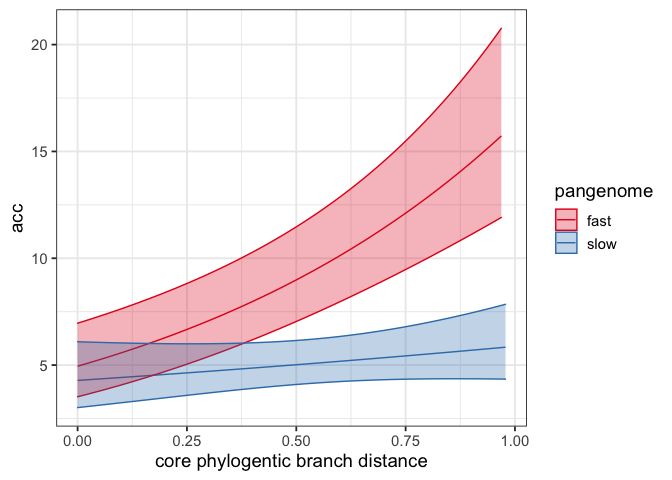
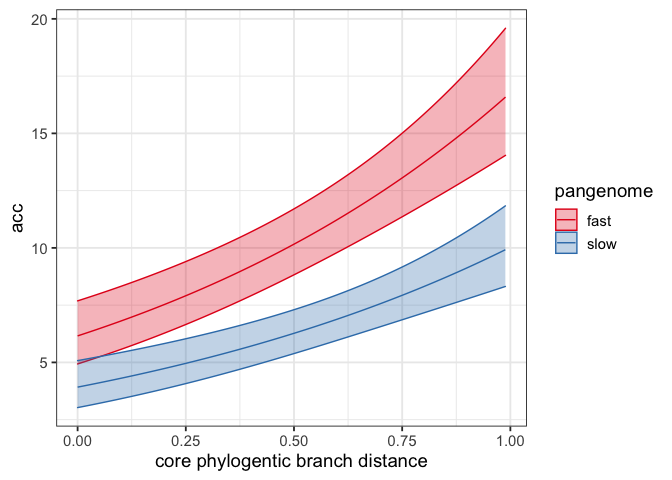
latest merge

diff --git a/README.md b/README.md
@@ -105,6 +105,11 @@ gain and loss.
     significantly with the depth of a branch. Typically, our ability to
     detect gene exchange events reduces for older ancestral branches.
 
+-   **p** the inferred index parameter of the underlying Tweedie
+    distribution used in the GLM
+
+-   **phi** the inferred dispersion parameter of the GLM
+
 #### model
 
 The output of fitting the GLM model. This object can be used to predict
@@ -168,8 +173,8 @@ size of each event differs in the two pangenomes.
 
 ``` r
 # Simulate a fast gene gain/loss rate with error
-sim_fast <- simulate_pan(rate = 0.001, ngenomes = 100)
-sim_slow <- simulate_pan(rate = 1e-04, ngenomes = 100)
+sim_fast <- simulate_pan(rate = 0.001, ngenomes = 200)
+sim_slow <- simulate_pan(rate = 5e-04, ngenomes = 200)
 
 # Run panstripe
 fit_fast <- panstripe(sim_fast$pa, sim_fast$tree)
@@ -179,12 +184,12 @@ fit_slow <- panstripe(sim_slow$pa, sim_slow$tree)
 result <- compare_pangenomes(fit_fast, fit_slow)
 result$summary
 #> # A tibble: 4 × 7
-#>   term   estimate std.error statistic  p.value `bootstrap CI …` `bootstrap CI …`
-#>   <chr>     <dbl>     <dbl>     <dbl>    <dbl>            <dbl>            <dbl>
-#> 1 depth    -0.106    0.0404     -2.63 8.82e- 3           -0.188          -0.0180
-#> 2 istip     0.666    0.164       4.07 5.69e- 5            0.316           0.967 
-#> 3 core     -1.80     0.212      -8.49 4.41e-16           -2.19           -1.37  
-#> 4 dispe…   NA       NA          10.5  1.18e- 3           NA              NA
+#>   term    estimate std.error statistic p.value `bootstrap CI …` `bootstrap CI …`
+#>   <chr>      <dbl>     <dbl>     <dbl>   <dbl>            <dbl>            <dbl>
+#> 1 depth    -0.0826    0.0237    -3.49  5.09e-4          -0.122           -0.0380
+#> 2 istip     0.273     0.0976     2.80  5.22e-3           0.0782           0.443 
+#> 3 core     -0.457     0.126     -3.62  3.11e-4          -0.707           -0.212 
+#> 4 disper…  NA        NA          0.334 5.63e-1          NA               NA
 ```
 
 ## Open vs Closed
@@ -210,13 +215,13 @@ fit_closed$summary
 #> # A tibble: 7 × 7
 #>   term    estimate std.error statistic p.value `bootstrap CI …` `bootstrap CI …`
 #>   <chr>      <dbl>     <dbl>     <dbl>   <dbl>            <dbl>            <dbl>
-#> 1 Interc… -21.4    2178.      -9.82e-3   0.992         -22.9            -20.9   
-#> 2 istip    22.7    2178.       1.04e-2   0.992          22.2             24.3   
-#> 3 core      0.0101 3694.       2.73e-6   1.00           -0.0520           0.0686
-#> 4 depth     0.0300    0.0288   1.04e+0   0.298          -0.0562           0.111 
-#> 5 istip:…  -0.171  3694.      -4.62e-5   1.00           -0.491            0.163 
-#> 6 p         1.05     NA       NA        NA               1.01             1.69  
-#> 7 phi       0.440    NA       NA        NA               0.335            0.677
+#> 1 Interc… -21.2    1817.      -1.16e-2   0.991          -24.1           -17.8   
+#> 2 istip    22.7    1817.       1.25e-2   0.990           19.4            25.6   
+#> 3 core     -0.0315 3178.      -9.91e-6   1.00            -0.117           0.0525
+#> 4 depth    -0.0452    0.0375  -1.20e+0   0.230           -0.149           0.0563
+#> 5 istip:…   0.102  3178.       3.23e-5   1.00            -0.172           0.373 
+#> 6 p         1.05     NA       NA        NA                1.00            1.66  
+#> 7 phi       0.401    NA       NA        NA                0.262           1.31
 ```
 
 The p-value indicates that there is not a significant association
@@ -239,8 +244,8 @@ Here, we simulate two data sets with the same recombination rate but
 where each recombination event differs in the number of genes involved.
 
 ``` r
-sim_large <- simulate_pan(rate = 0.001, ngenomes = 100, mean_trans_size = 6)
-sim_small <- simulate_pan(rate = 0.001, ngenomes = 100, mean_trans_size = 3)
+sim_large <- simulate_pan(rate = 0.001, ngenomes = 100, mean_trans_size = 3)
+sim_small <- simulate_pan(rate = 0.001, ngenomes = 100, mean_trans_size = 4)
 
 fit_large <- panstripe(sim_large$pa, sim_large$tree)
 fit_small <- panstripe(sim_small$pa, sim_small$tree)
@@ -249,12 +254,12 @@ fit_small <- panstripe(sim_small$pa, sim_small$tree)
 result <- compare_pangenomes(fit_fast, fit_slow)
 result$summary
 #> # A tibble: 4 × 7
-#>   term   estimate std.error statistic  p.value `bootstrap CI …` `bootstrap CI …`
-#>   <chr>     <dbl>     <dbl>     <dbl>    <dbl>            <dbl>            <dbl>
-#> 1 depth    -0.106    0.0404     -2.63 8.82e- 3           -0.179          -0.0276
-#> 2 istip     0.666    0.164       4.07 5.69e- 5            0.314           0.996 
-#> 3 core     -1.80     0.212      -8.49 4.41e-16           -2.22           -1.39  
-#> 4 dispe…   NA       NA          10.5  1.18e- 3           NA              NA
+#>   term    estimate std.error statistic p.value `bootstrap CI …` `bootstrap CI …`
+#>   <chr>      <dbl>     <dbl>     <dbl>   <dbl>            <dbl>            <dbl>
+#> 1 depth    -0.0826    0.0237    -3.49  5.09e-4          -0.121           -0.0381
+#> 2 istip     0.273     0.0976     2.80  5.22e-3           0.0972           0.432 
+#> 3 core     -0.457     0.126     -3.62  3.11e-4          -0.703           -0.215 
+#> 4 disper…  NA        NA          0.334 5.63e-1          NA               NA
 ```
 
 ## Plots
